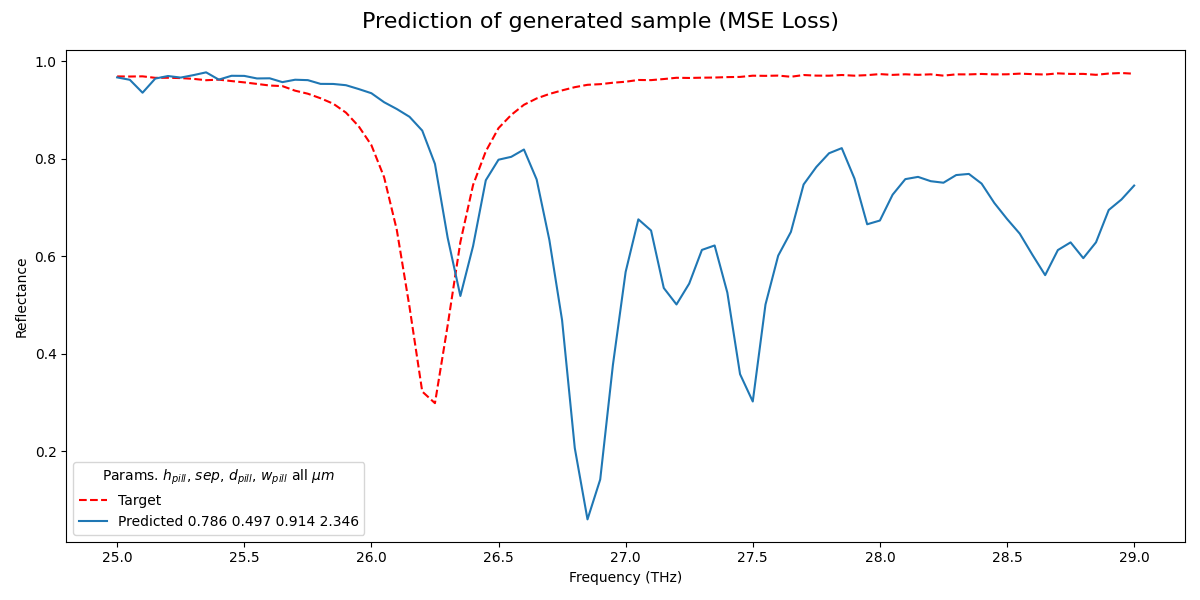
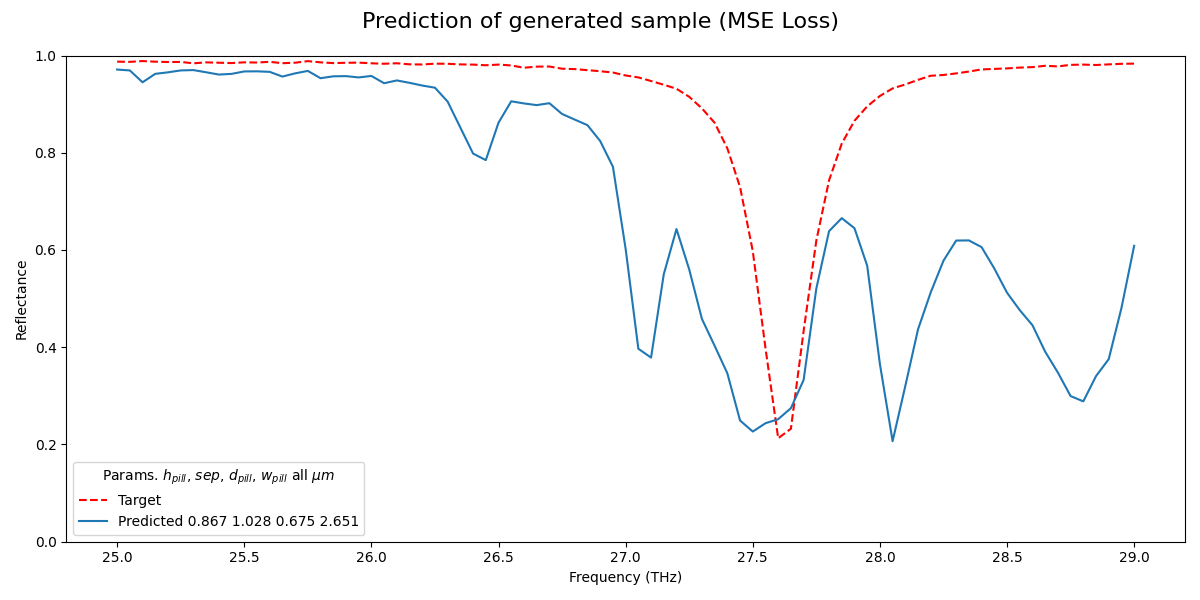
corrected plots (Oscar's suggestions)

diff --git a/full_model_test.py b/full_model_test.py
@@ -7,7 +7,6 @@ from mlp_pytorch import ForwardMLP
 from cnn_pytorch_inverse import InverseCNN
 from loss import ResonancePeaksLoss
 from tandem_model import TandemModel
-from test_model import test_tandem_model
 
 from utils.generate_spectra import generate_spectrum
 from utils.dataloader import apply_smooth_flattening, compute_peak_bounds, load_reflection_spectra_dataloaders
@@ -50,6 +49,7 @@ def reconstruct_evaluate_spectrum(tandem_model, loss_function, wavelengths, spec
     fig.suptitle(title_str, fontsize=16)
     ax.set_xlabel("Frequency (THz)")
     ax.set_ylabel("Reflectance")
+    ax.set_ylim([0,1])
 
     plt.tight_layout()
     plt.savefig(output_path) 
@@ -58,7 +58,7 @@ def reconstruct_evaluate_spectrum(tandem_model, loss_function, wavelengths, spec
     return predicted_geo_numpy, y_pred, y_true, total.item()
 
 
-def test_tandem_model(test_type: str, use_mse=False):
+def test_tandem_model(test_type: str, use_mse=False, output_path: str = None, spectrum_test = None):
 
 
     training_config = TrainingConfig("mlp", "params.env")
@@ -75,6 +75,10 @@ def test_tandem_model(test_type: str, use_mse=False):
         print("Testing generated samples")
         test_aug = False
         # tests_folder = "tandem_tests/v3_ls_04_4layers/generated_peaks/"
+        title_str = "Prediction of generated sample"
+    elif test_type == "m":
+        test_aug = False
+        print("multi test setting")
         title_str = "Prediction of generated sample"
     else:
         raise ValueError("test_type must be t or g")
@@ -153,23 +157,37 @@ def test_tandem_model(test_type: str, use_mse=False):
         test_spectrum = torch.from_numpy(y_test[test_i]).float().view(y_test[test_i].shape[0], -1)
         bounds = compute_peak_bounds(test_spectrum.numpy().squeeze(), 3)
         aug_signal = apply_smooth_flattening(test_spectrum.numpy().squeeze(), bounds)
-        out_file = os.path.join(tests_folder, "res_augmented_sample.png")
+        if output_path == None:
+            output_path = "res_augmented_sample.png"
+        out_file = os.path.join(tests_folder, output_path)
         reconstruct_evaluate_spectrum(tandem_model, loss_function, wavelengths, aug_signal, scaler=scaler_geo_tandem, title_str=title_str, output_path = out_file)
 
     else:
         # generate a spectrum
-        spectrum_test, _ = generate_spectrum(
-            num_points=81,
-            num_peaks=1,
-            peak_type='lorentzian',
-            # peak_type='gaussian',
-            noise_level=0.001,
-            peak_spread=0.15
-        )
+        if test_type == "g":
+            spectrum_test, _ = generate_spectrum(
+                num_points=81,
+                num_peaks=1,
+                peak_type='lorentzian',
+                # peak_type='gaussian',
+                noise_level=0.001,
+                peak_spread=0.15
+            )
 
         # i don't know the 'true' geometries because the spectrum is arbitrarily generated
         # geometries are already rescaled
-        predicted_geo_numpy, y_pred, y_true, _ = reconstruct_evaluate_spectrum(tandem_model, loss_function, wavelengths, spectrum_test, scaler=scaler_geo_tandem, title_str=title_str, output_path = os.path.join(tests_folder, f"res_generated.png"))
+        if output_path == None:
+            output_path = "res_generated.png"
+        predicted_geo_numpy, y_pred, y_true, _ = reconstruct_evaluate_spectrum(
+            tandem_model,
+            loss_function,
+            wavelengths,
+            spectrum_test,
+            scaler=scaler_geo_tandem,
+            title_str=title_str,
+            # output_path = os.path.join(tests_folder, "res_generated.png"))
+            output_path=output_path
+        )
 
         print("test geometries")
         designs_predict_physical = predicted_geo_numpy
@@ -189,7 +207,20 @@ def test_tandem_model(test_type: str, use_mse=False):
 
     print("Done")
 
+def multi_test():
+    spectrum_test, _ = generate_spectrum(
+        num_points=81,
+        num_peaks=1,
+        peak_type='lorentzian',
+        # peak_type='gaussian',
+        noise_level=0.001,
+        peak_spread=0.15
+    )
+    test_tandem_model("m",False, "res_generated_pil.png", spectrum_test=spectrum_test)
+    test_tandem_model("m",True, "res_generated_mse.png", spectrum_test=spectrum_test)
+
 if __name__ == '__main__':
 
     from fire import Fire
-    Fire(test_tandem_model)
+    # Fire(test_tandem_model)
+    Fire(multi_test)

diff --git a/resim.py b/resim.py
@@ -97,6 +97,7 @@ def plot_resimulated_spectrum(source: str, spectrum_index: int, out_file = "resi
 
     ax.set_xlabel("Frequency (THz)")
     ax.set_ylabel("Reflectance")
+    ax.set_ylim([0,1])
 
     fig.suptitle(f"Re-simulation of {type_str} design", fontsize=16)
 
